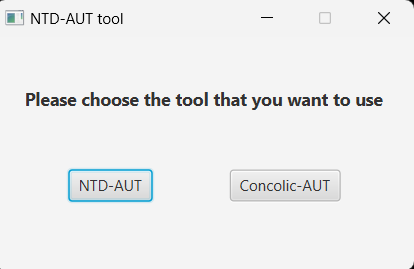
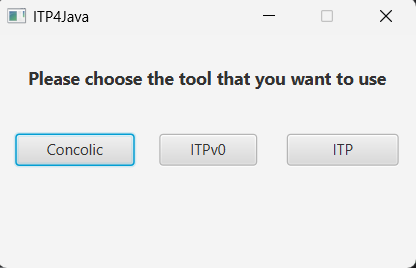
update UI & docs

diff --git a/src/main/java/controller/ITP4JavaV0Controller.java b/src/main/java/controller/ITP4JavaV0Controller.java
@@ -28,6 +28,7 @@ import utils.uploadUtil.ConcolicUploadUtil;
 import utils.uploadUtil.NTDUploadUtil;
 
 import java.io.File;
+import java.io.IOException;
 import java.net.URL;
 import java.util.List;
 import java.util.ResourceBundle;
@@ -162,6 +163,8 @@ public class ITP4JavaV0Controller implements Initializable {
             projectTreeView.setRoot(rootFolder);
             alertLabel.setTextFill(Paint.valueOf("green"));
             alertLabel.setText("Upload time " + duration + "ms");
+
+            projectTreeView.setDisable(true);
         } catch (Exception e) {
             alertLabel.setTextFill(Paint.valueOf("red"));
             alertLabel.setText("INVALID PROJECT ZIP FILE (eg: not a zip file, project's source code contains cases we haven't handled, ...)");
@@ -322,7 +325,23 @@ public class ITP4JavaV0Controller implements Initializable {
 
 //        testCaseListView.getItems().addAll(result.getFullTestData());
     }
+    @FXML
+    void btnViewTestReportButtonClicked(MouseEvent event) {
+        try {
+            // Create a File object to check existence
+            File file = new File(constants.ITP_TEST_RESULT_FILEPATH);
+            if (!file.exists()) {
+                System.err.println("The file does not exist: " + constants.ITP_TEST_RESULT_FILEPATH);
+                return;
+            }
 
+            // Use Runtime to open the file in Notepad
+            Process process = Runtime.getRuntime().exec("notepad \"" + constants.ITP_TEST_RESULT_FILEPATH + "\"");
+            System.out.println("File opened in Notepad.");
+        } catch (IOException e) {
+            System.err.println("Failed to open file in Notepad: " + e.getMessage());
+        }
+    }
     private void setTestCaseDetail(ConcolicTestData testData) {
         testCaseIDLabel.setText("   Test case ID: " + testData.getTestCaseID());
         sourceCodeCoverageLabel.setText("   Source code coverage: " + testData.getSourceCodeCoverage());

diff --git a/src/main/java/controller/Concolic4ITPController.java b/src/main/java/controller/Concolic4ITPController.java
@@ -29,6 +29,7 @@ import utils.uploadUtil.ConcolicUploadUtil;
 import utils.uploadUtil.NTDUploadUtil;
 
 import java.io.File;
+import java.io.IOException;
 import java.net.URL;
 import java.util.List;
 import java.util.ResourceBundle;
@@ -159,6 +160,8 @@ public class Concolic4ITPController implements Initializable {
             projectTreeView.setRoot(rootFolder);
             alertLabel.setTextFill(Paint.valueOf("green"));
             alertLabel.setText("Upload time " + duration + "ms");
+
+            projectTreeView.setDisable(true);
         } catch (Exception e) {
             alertLabel.setTextFill(Paint.valueOf("red"));
             alertLabel.setText("INVALID PROJECT ZIP FILE (eg: not a zip file, project's source code contains cases we haven't handled, ...)");
@@ -332,6 +335,23 @@ public class Concolic4ITPController implements Initializable {
 //        testCaseListView.getItems().addAll(result.getFullTestData());
     }
 
+    @FXML
+    void btnViewTestReportButtonClicked(MouseEvent event) {
+        try {
+            // Create a File object to check existence
+            File file = new File(constants.ITP_TEST_RESULT_FILEPATH);
+            if (!file.exists()) {
+                System.err.println("The file does not exist: " + constants.ITP_TEST_RESULT_FILEPATH);
+                return;
+            }
+
+            // Use Runtime to open the file in Notepad
+            Process process = Runtime.getRuntime().exec("notepad \"" + constants.ITP_TEST_RESULT_FILEPATH + "\"");
+            System.out.println("File opened in Notepad.");
+        } catch (IOException e) {
+            System.err.println("Failed to open file in Notepad: " + e.getMessage());
+        }
+    }
     //
     private void setTestCaseDetail(ConcolicTestData testData) {
         testCaseIDLabel.setText("   Test case ID: " + testData.getTestCaseID());

diff --git a/src/main/java/controller/ITP4JavaController.java b/src/main/java/controller/ITP4JavaController.java
@@ -29,6 +29,7 @@ import utils.uploadUtil.ConcolicUploadUtil;
 import utils.uploadUtil.NTDUploadUtil;
 
 import java.io.File;
+import java.io.IOException;
 import java.net.URL;
 import java.util.List;
 import java.util.ResourceBundle;
@@ -165,6 +166,8 @@ public class ITP4JavaController implements Initializable {
             projectTreeView.setRoot(rootFolder);
             alertLabel.setTextFill(Paint.valueOf("green"));
             alertLabel.setText("Upload time " + duration + "ms");
+
+            projectTreeView.setDisable(true);
         } catch (Exception e) {
             alertLabel.setTextFill(Paint.valueOf("red"));
             alertLabel.setText("INVALID PROJECT ZIP FILE (eg: not a zip file, project's source code contains cases we haven't handled, ...)");
@@ -330,6 +333,24 @@ public class ITP4JavaController implements Initializable {
 
 
 //        testCaseListView.getItems().addAll(result.getFullTestData());
+    }
+
+    @FXML
+    void btnViewTestReportButtonClicked(MouseEvent event) {
+        try {
+            // Create a File object to check existence
+            File file = new File(constants.ITP_TEST_RESULT_FILEPATH);
+            if (!file.exists()) {
+                System.err.println("The file does not exist: " + constants.ITP_TEST_RESULT_FILEPATH);
+                return;
+            }
+
+            // Use Runtime to open the file in Notepad
+            Process process = Runtime.getRuntime().exec("notepad \"" + constants.ITP_TEST_RESULT_FILEPATH + "\"");
+            System.out.println("File opened in Notepad.");
+        } catch (IOException e) {
+            System.err.println("Failed to open file in Notepad: " + e.getMessage());
+        }
     }
 
     private void setTestCaseDetail(ConcolicTestData testData) {

diff --git a/src/main/java/controller/ChooseToolController.java b/src/main/java/controller/ChooseToolController.java
@@ -46,7 +46,7 @@ public class ChooseToolController {
         stage = (Stage)((Node)event.getSource()).getScene().getWindow();
         scene = new Scene(root);
         stage.setResizable(false);
-        stage.setTitle("Concolic4ITP");
+        stage.setTitle("Concolic testing method");
         stage.setScene(scene);
         scene.getWindow().centerOnScreen();
         stage.show();
@@ -58,7 +58,7 @@ public class ChooseToolController {
         stage = (Stage)((Node)event.getSource()).getScene().getWindow();
         scene = new Scene(root);
         stage.setResizable(false);
-        stage.setTitle("ITP4Java");
+        stage.setTitle("ITP testing method");
         stage.setScene(scene);
         scene.getWindow().centerOnScreen();
         stage.show();
@@ -70,7 +70,7 @@ public class ChooseToolController {
         stage = (Stage)((Node)event.getSource()).getScene().getWindow();
         scene = new Scene(root);
         stage.setResizable(false);
-        stage.setTitle("ITP4Java v0");
+        stage.setTitle("ITP4v0 testing method");
         stage.setScene(scene);
         scene.getWindow().centerOnScreen();
         stage.show();

diff --git a/src/main/resources/DriverTemplates/ITP_TestDriverTemplate.java b/src/main/resources/DriverTemplates/ITP_TestDriverTemplate.java
@@ -73,6 +73,25 @@ public class ITP_TestDriver {
 
     public static void main(String[] args) throws IOException, ParseException {
 
+
+        try
+        {
+            //Setup start
+            //TODO: Initialize environment
+            //Setup end
+            //TODO: Read input file
+            //TODO: Invoke the corresponding test driver block
+            //Tear down start
+            //TODO: Clean up environment: freeing memory, file,...
+            //Tear down end
+        }
+        catch (Exception e)
+        {
+            e.printStackTrace();
+            return;
+        }
+
+
         System.out.println("ITP_TestDriver starts...");
 
         writeDataToFile("", PATH_RESULT, false);

diff --git a/src/main/resources/DriverTemplates/Concolic4ITPTestDriverTemplate.java b/src/main/resources/DriverTemplates/Concolic4ITPTestDriverTemplate.java
@@ -43,6 +43,22 @@ public class concolic4ITPTestDriver {
 
     public static void main(String[] args) {
 
+        try
+        {
+            //Setup start
+            //TODO: Initialize environment and parameter value
+            //Setup end
+            //TODO: Call test function
+            //Tear down start
+            //TODO: Clean up environment: freeing memory, file,...
+            //Tear down end
+        }
+        catch (Exception e)
+        {
+            e.printStackTrace();
+            return;
+        }
+
         System.out.println("concolic4ITPTestDriver starts...");
 
         writeDataToFile("", PATH_RESULT, false);

diff --git a/src/main/java/utils/ITP4Java/common/constants.java b/src/main/java/utils/ITP4Java/common/constants.java
@@ -25,8 +25,8 @@ public interface constants {
     String UNIT_CALLING_PLACEHOLDER = "%%UNIT_CALLING_PLACEHOLDER%%";
     String TEST_DATA_READING_PLACEHOLDER = "%%TEST_DATA_READING_PLACEHOLDER%%";
 
-//    String PROJECT_ROOT_DRIVE = "E:\\IdeaProjects\\NTD-Paper"; // At company
-    String PROJECT_ROOT_DRIVE = "D:\\QG25.09\\Code.VietTH\\NTD-Paper"; //At home
+    String PROJECT_ROOT_DRIVE = "E:\\IdeaProjects\\NTD-Paper"; // At company
+//    String PROJECT_ROOT_DRIVE = "D:\\QG25.09\\Code.VietTH\\NTD-Paper"; //At home
 
     //Test driver folder
     String TEST_DRIVER_FOLDER = "E:\\IdeaProjects\\testDriver";

diff --git a/README.md b/README.md
@@ -1,7 +1,7 @@
-# NTD-AUT: A Non-Test Driver Concolic-Based Unit Testing Method for Java Projects
+# ITP: An Effective Concolic-Based Method for Generating Test Data in Unit Testing of Java Projects
 ## USER MANUAL
 ### Required environment
-- Our implementation has been tested on the Windows, Intel®Core™i7-1165G7 CPU @ 2.80GHz, 16GBs RAM memory.
+- Our implementation has been tested on the Windows, Processor	12th Gen Intel(R) Core(TM) i7-1255U, 1700 Mhz, 10 Core(s), 12 Logical Processor(s), 16GBs RAM memory.
 - IntelliJ IDEA, which is available [here](https://www.jetbrains.com/idea/download/)
 - [Java 11 SDK](https://www.oracle.com/java/technologies/javase-jdk11-downloads.html)
 - [Download JavaFX SDK (Version: 17.0.10, Type: SDK)](https://gluonhq.com/products/javafx/)
@@ -16,8 +16,8 @@
    - Main class: `gui.Main`
    - Modify options -> Add VM options: `--module-path <path-to-lib-folder-of-javafx-sdk> --add-modules javafx.controls,javafx.fxml` (TODO: Change the path to your JavaFX SDK lib folder)
 4. Run the project, the tool will ask you to choose between two options:
-   - **Option 1**: NTD method
-   - **Option 2**: Traditional concolic method\
+   - **Option 1**: Concolic4ITP. This function implements the Concolic testing method.
+   - **Option 2**: ITP4V0. This function implements the ITPv0 testing method.
 ![image](./src/main/resources/img/choose-method.png)
 5. After choosing the method, the main screen looks like this:
 ![image](./src/main/resources/img/main-screen.png)
